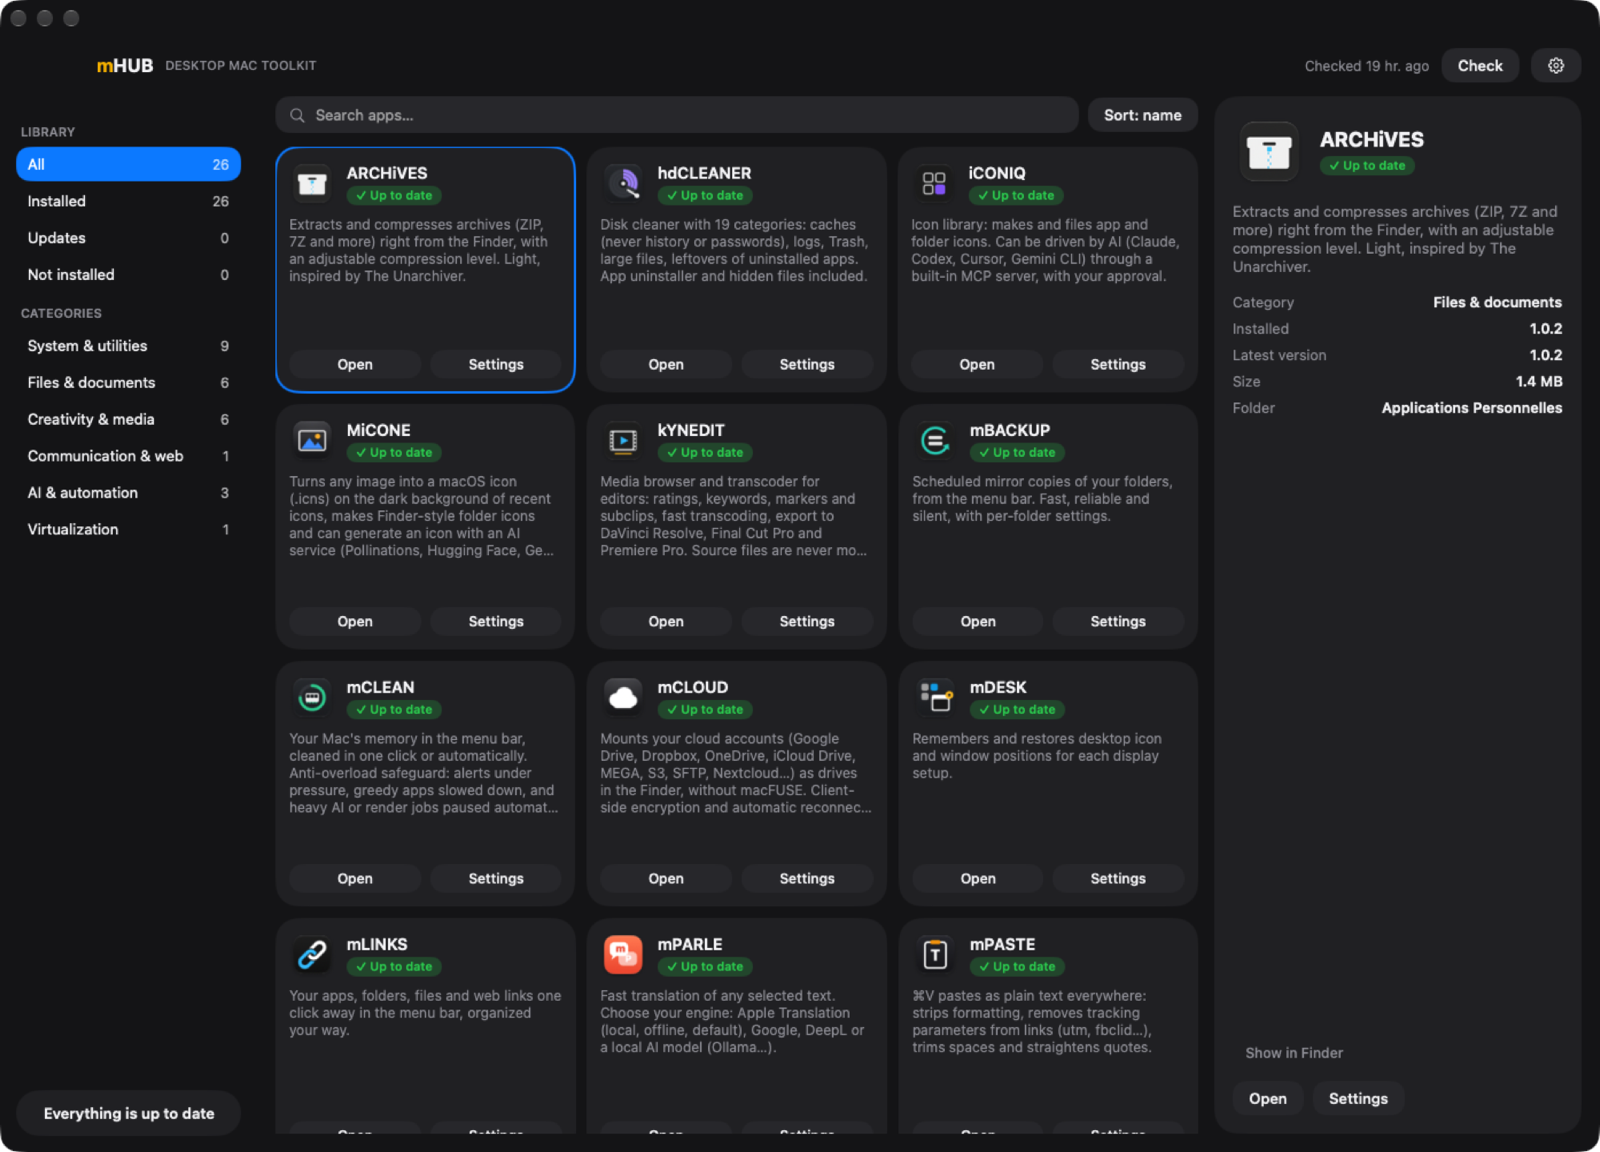
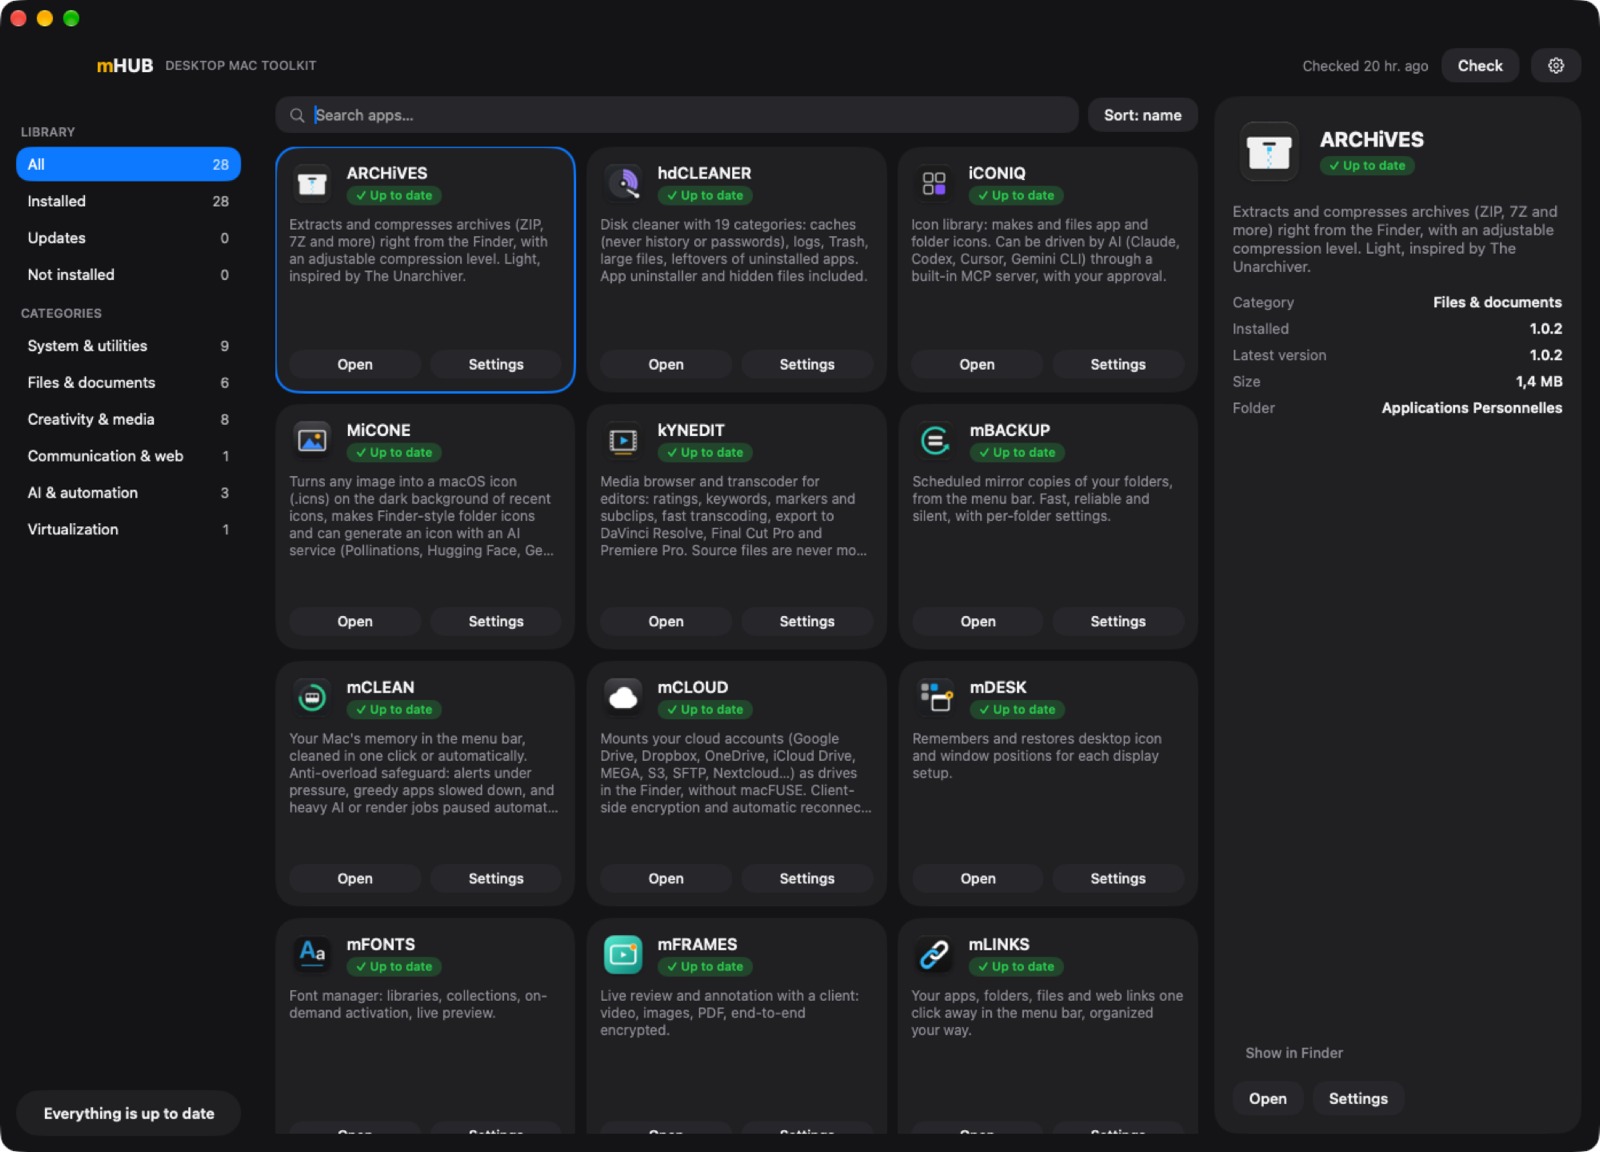
content(mhub): 1.1.2 catalogue and screenshot

diff --git a/content/apps/mhub/index.md b/content/apps/mhub/index.md
@@ -15,13 +15,13 @@ freeDownload: true
 featured: false
 added: "2026-11-21"
 verified: "2026-11-21"
-sources: ["https://github.com/starbudweiser/mHUB", "https://github.com/starbudweiser/mHUB/blob/main/LICENSE", "https://github.com/starbudweiser/mHUB/releases/tag/v1.1.1", "https://github.com/starbudweiser/mHUB/blob/main/README.md"]
+sources: ["https://github.com/starbudweiser/mHUB", "https://github.com/starbudweiser/mHUB/blob/main/LICENSE", "https://github.com/starbudweiser/mHUB/releases/tag/v1.1.2", "https://github.com/starbudweiser/mHUB/blob/main/README.md"]
 screenshots: [{"src": "./assets/screenshot.png", "alt": "The mHUB library window: toolkit apps as cards with their update status and Open and Settings buttons, categories in the sidebar, and the details of the selected app on the right.", "source": "https://github.com/starbudweiser/mHUB/blob/main/docs/screenshot.png", "credit": "mHUB authors"}]
 assets: [{"path": "./assets/screenshot.png", "source": "https://github.com/starbudweiser/mHUB/blob/main/docs/screenshot.png", "credit": "mHUB authors", "license": "MIT (mHUB repository)"}, {"path": "./assets/icon.png", "source": "https://github.com/starbudweiser/mHUB/blob/main/assets/icon-1024.png", "credit": "mHUB authors", "license": "MIT (mHUB repository)"}]
 icon: ./assets/icon.png
 ---
 
-mHUB gathers the apps of the DESKTOP MAC TOOLKIT, the author's collection of Mac utilities, behind one menu bar icon and one window. The library shows each app from its catalogue with a short description, the installed and latest versions, and buttons to open it or bring up its settings. A red dot on the menu bar icon means updates are waiting.
+mHUB gathers the apps of the DESKTOP MAC TOOLKIT, the author's collection of Mac utilities, behind one menu bar icon and one window. The catalogue lists 28 apps in version 1.1.2. The library shows each one with a short description, the installed and latest versions, and buttons to open it or bring up its settings. A red dot on the menu bar icon means updates are waiting.
 
 Installing or updating an app downloads its release from the app's public GitHub repository. Before anything is replaced, mHUB verifies the code signature, requires the expected Developer ID team and runs a Gatekeeper check. It never replaces an app that is open. Apps are installed in ~/Applications/Applications Personnelles.
 
